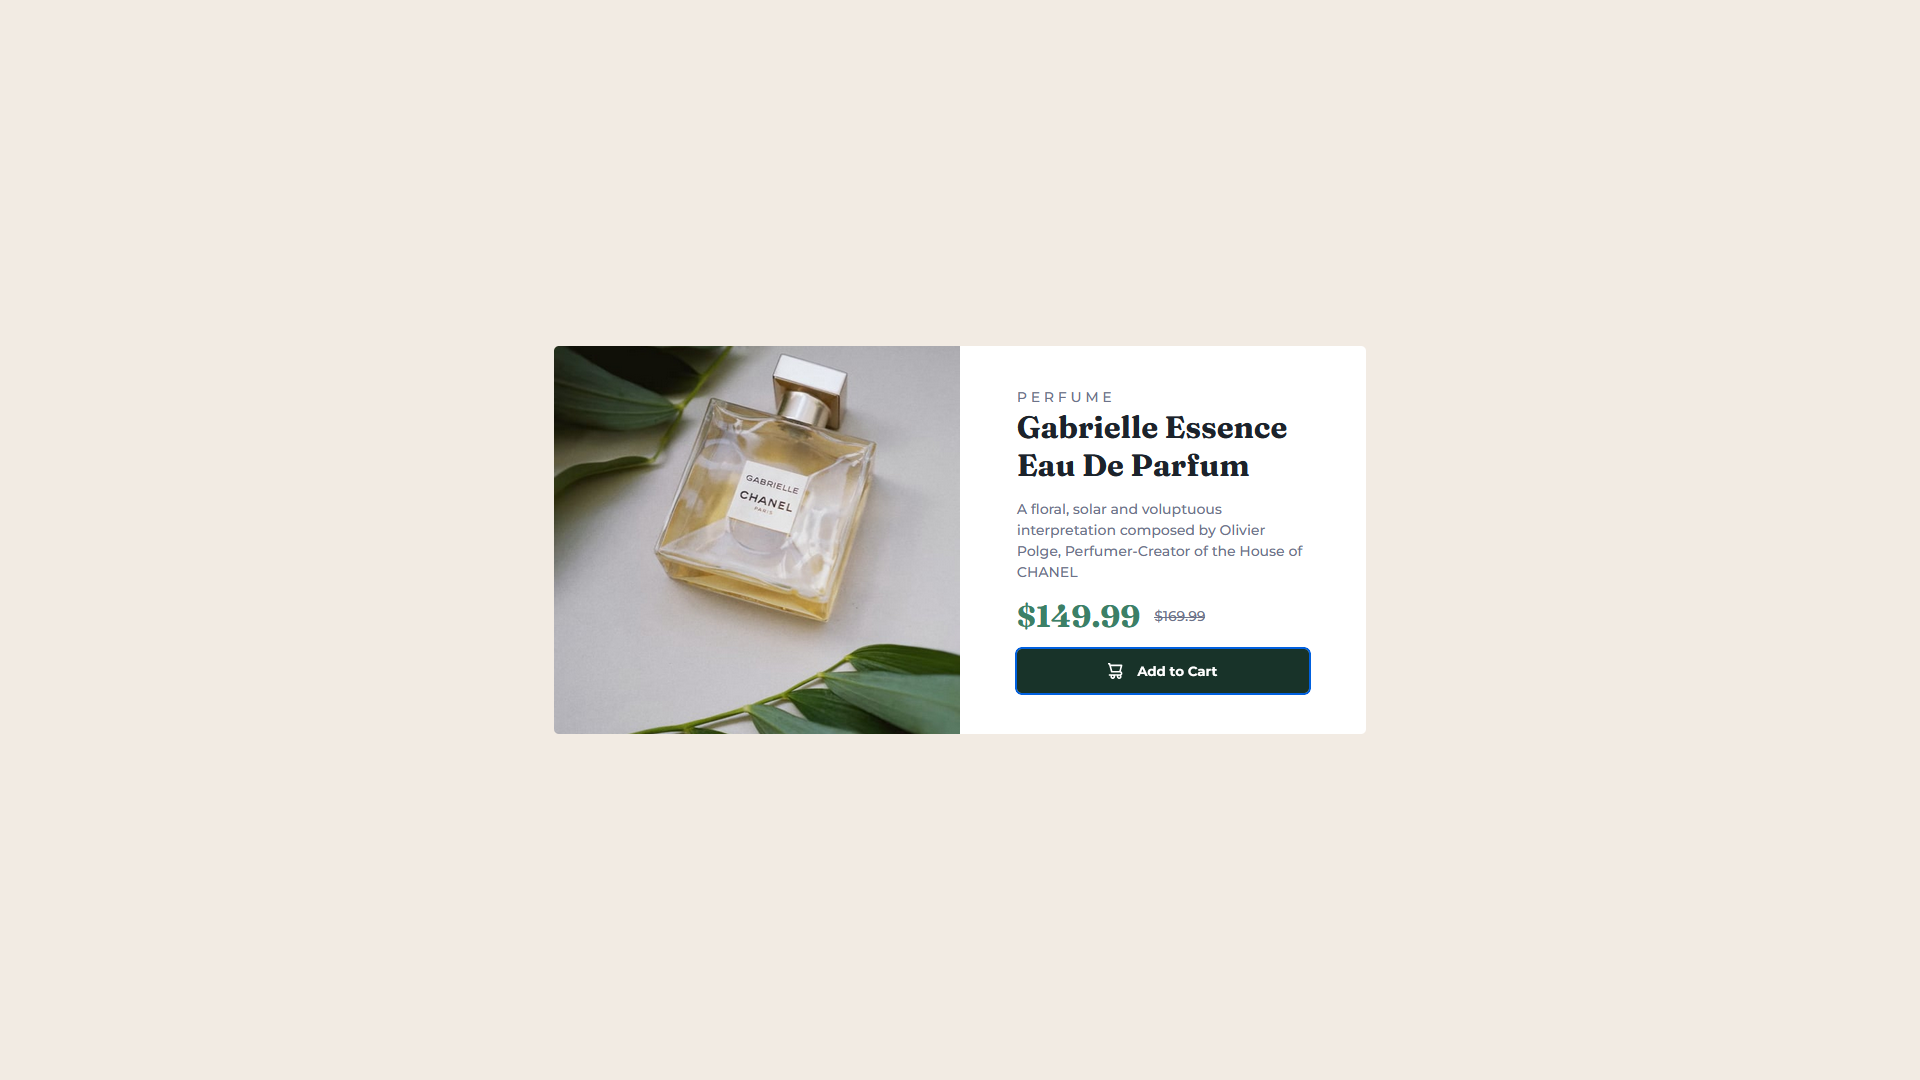
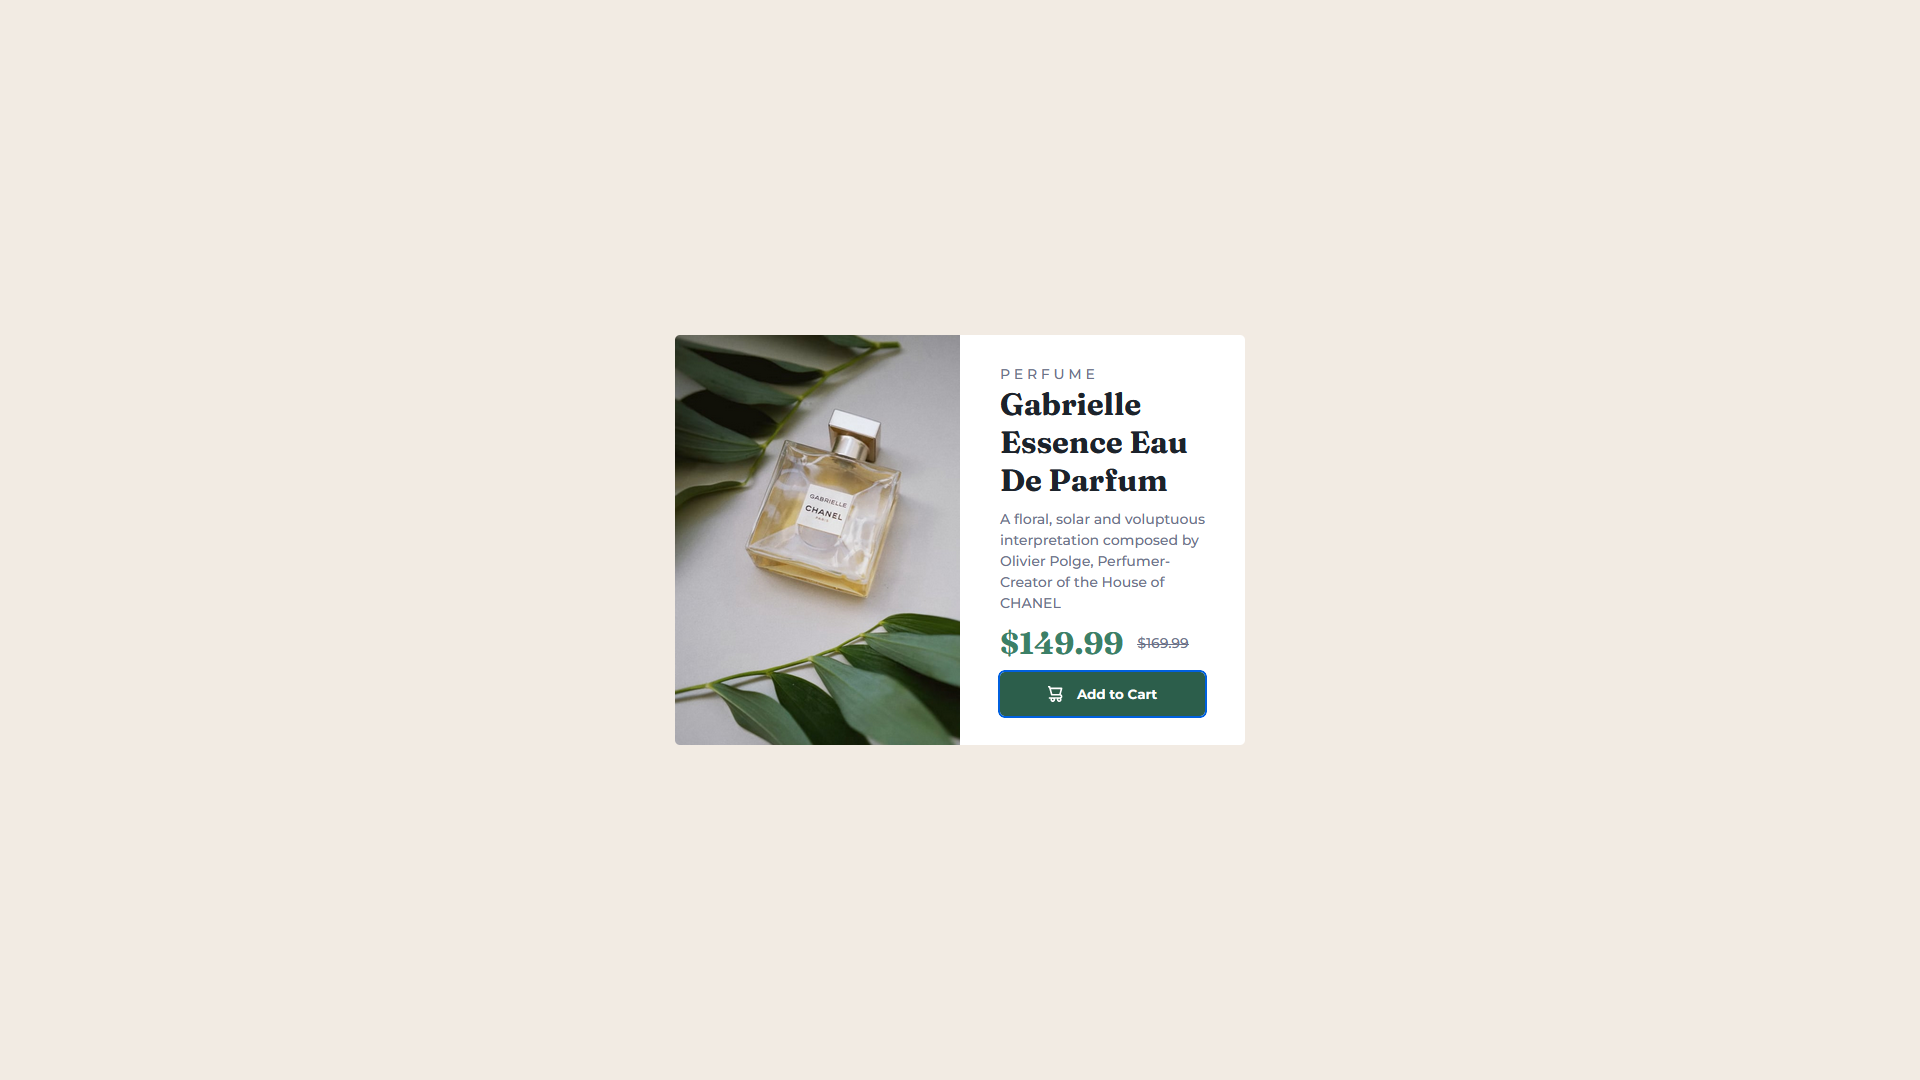
Add minor fixes and remake img tag to use semantic HTML

Changed region(s): [[0.2812, 0.3056, 0.7188, 0.7028]]

diff --git a/docs/index.html b/docs/index.html
@@ -1,6 +1,6 @@
 <!DOCTYPE html>
 
-<html>
+<html lang="en">
   <head>
     <title>Gabrielle Chanel Paris</title>
     <meta charset="UTF-8">
@@ -12,18 +12,21 @@
     <link rel="icon" href="./images/favicon-32x32.png">
   </head>
   <body>
-    <section class="card">
-      <div class="card__img"></div>
-      <div class="card__info">
-        <p class="card__text">P E R F U M E</p>
-        <h1 class="card__serif-text">Gabrielle Essence Eau De Parfum</h1>
-        <p class="card__text card__text--spacing">A floral, solar and voluptuous interpretation composed by Olivier Polge, Perfumer-Creator of the House of CHANEL</p>
-        <div class="card__price">
-          <p class="card__serif-text card__serif-text--green">$149.99</p>
-          <p class="card__text card__text--strikethrough">$169.99</p>
+      <main class="card">
+        <picture class="card__img__container">
+          <source media="(min-width: 1500px)" srcset="./images/image-product-desktop.jpg">
+          <img class="card__img" src="./images/image-product-mobile.jpg">
+        </picture>
+        <div class="card__info">
+          <p class="card__text">P E R F U M E</p>
+          <h1 class="card__serif-text">Gabrielle Essence Eau De Parfum</h1>
+          <p class="card__text card__text--spacing">A floral, solar and voluptuous interpretation composed by Olivier Polge, Perfumer-Creator of the House of CHANEL</p>
+          <div class="card__price">
+            <p class="card__serif-text card__serif-text--green">$149.99</p>
+            <p class="card__text card__text--strikethrough">$169.99</p>
+          </div>
+          <button class="card__buy-button"><svg width="15" height="16" xmlns="http://www.w3.org/2000/svg"><path d="M14.383 10.388a2.397 2.397 0 0 0-1.518-2.222l1.494-5.593a.8.8 0 0 0-.144-.695.8.8 0 0 0-.631-.28H2.637L2.373.591A.8.8 0 0 0 1.598 0H0v1.598h.983l1.982 7.4a.8.8 0 0 0 .799.59h8.222a.8.8 0 0 1 0 1.599H1.598a.8.8 0 1 0 0 1.598h.943a2.397 2.397 0 1 0 4.507 0h1.885a2.397 2.397 0 1 0 4.331-.376 2.397 2.397 0 0 0 1.12-2.021ZM11.26 7.99H4.395L3.068 3.196h9.477L11.26 7.991Zm-6.465 6.392a.8.8 0 1 1 0-1.598.8.8 0 0 1 0 1.598Zm6.393 0a.8.8 0 1 1 0-1.598.8.8 0 0 1 0 1.598Z" fill="#FFF"/></svg>Add to Cart</button>
         </div>
-        <button class="card__buy-button"><div class="card__buy-filter"><svg width="15" height="16" xmlns="http://www.w3.org/2000/svg"><path d="M14.383 10.388a2.397 2.397 0 0 0-1.518-2.222l1.494-5.593a.8.8 0 0 0-.144-.695.8.8 0 0 0-.631-.28H2.637L2.373.591A.8.8 0 0 0 1.598 0H0v1.598h.983l1.982 7.4a.8.8 0 0 0 .799.59h8.222a.8.8 0 0 1 0 1.599H1.598a.8.8 0 1 0 0 1.598h.943a2.397 2.397 0 1 0 4.507 0h1.885a2.397 2.397 0 1 0 4.331-.376 2.397 2.397 0 0 0 1.12-2.021ZM11.26 7.99H4.395L3.068 3.196h9.477L11.26 7.991Zm-6.465 6.392a.8.8 0 1 1 0-1.598.8.8 0 0 1 0 1.598Zm6.393 0a.8.8 0 1 1 0-1.598.8.8 0 0 1 0 1.598Z" fill="#FFF"/></svg>Add to Cart</div></button>
-      </div>
-    </section>
+      </main>
   </body>
 </html>

diff --git a/docs/styles/style.css b/docs/styles/style.css
@@ -8,6 +8,7 @@
 :root {
   --font-size: 14px;
   --primary-color: hsl(158, 36%, 37%);
+  --primary-color-selected: hsl(158, 36%, 27%);
   --secondary-color: hsl(228, 12%, 48%);
   --darker-secondary-color: hsl(212, 21%, 14%);
   --background-color: hsl(30, 38%, 92%);
@@ -30,7 +31,7 @@ html {
 body {
   background-color: var(--background-color);
   font-family: 'Montserrat', sans-serif;
-  padding: 5%;
+  padding-inline: 5%;
   display: flex;
   align-items: center;
   justify-content: center;
@@ -44,20 +45,36 @@ body {
   flex-wrap: wrap;
 }
 
-.card__img {
-  background-image: url(../images/image-product-mobile.jpg);
-  width: 100%;
-  height: 30vh;
-  background-size: cover;
+@media only screen and (min-width: 1000px) {
+  .card {
+    height: 50%;
+    width: 66%;
+  }
 }
 
-@media only screen and (min-width: 500px) {
-  .card__img {
-    background-image: url(../images/image-product-desktop.jpg);
-    background-position: center;
-    width: 50%;
-    height: auto;
+@media only screen and (min-width: 1500px) {
+  .card {
+    height: 50%;
+    width: 33%;
   }
+}
+
+.card__img__container {
+  width: 100%;
+}
+
+@media only screen and (min-width: 1000px) {
+  .card__img__container {
+    width: 50%;
+  }
+}
+
+.card__img {
+  min-width: 100%;
+  min-height: 100%;
+  height: 30vh;
+  object-fit: cover;
+  display: block;
 }
 
 .card__info {
@@ -65,7 +82,7 @@ body {
   padding: 5% 7%;
 }
 
-@media only screen and (min-width: 500px) {
+@media only screen and (min-width: 1000px) {
   .card__info {
     max-width: 50%;
   }
@@ -109,10 +126,6 @@ body {
   font-weight: bold;
   color: var(--white);
   /* Used because backdrop-filter doesn't take in account the border-radius*/
-  overflow: hidden;
-}
-
-.card__buy-filter {
   padding: 1rem;
   display: flex;
   align-items: center;
@@ -120,6 +133,6 @@ body {
   gap: 1rem;
 }
 
-.card__buy-filter:hover, .card__buy-button:focus .card__buy-filter {
-  backdrop-filter: brightness(40%);
+.card__buy-button:hover, .card__buy-button:focus {
+  background-color: var(--primary-color-selected);
 }
